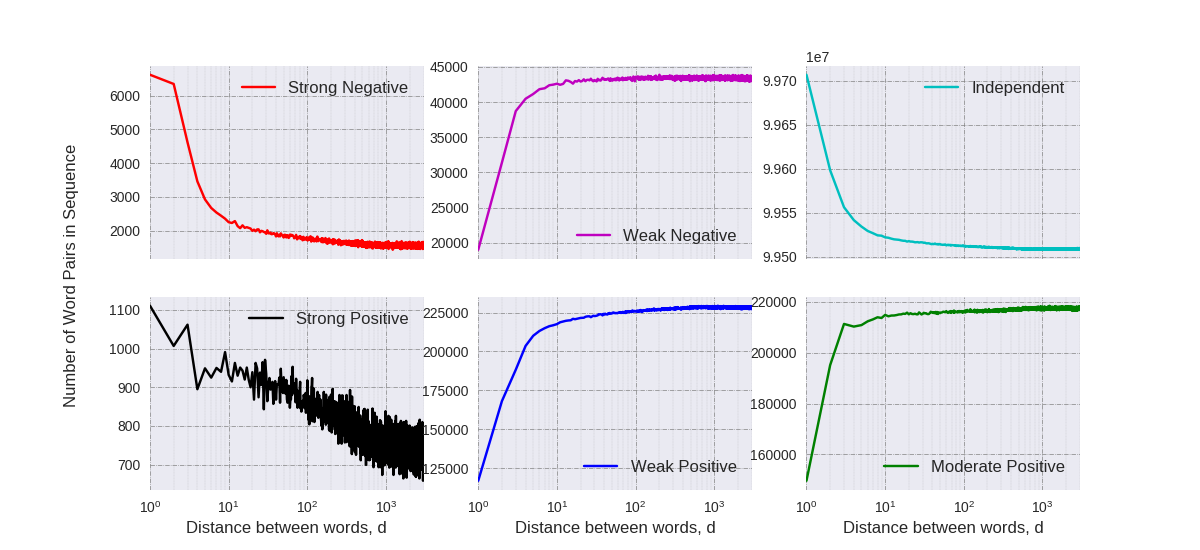
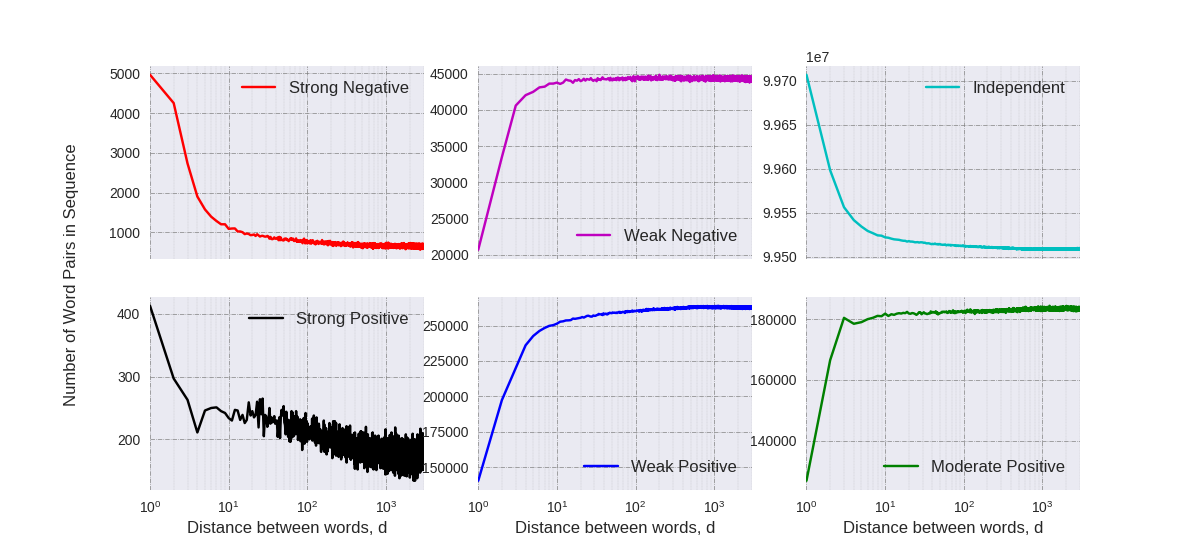
Up

diff --git a/paper_related/co-occurrence/cooccurrence.py b/paper_related/co-occurrence/cooccurrence.py
@@ -172,19 +172,19 @@ try:
 			fm.write("%d," % np.size(pmi[np.where(pmi>15.8)]))
 			fm.write("\n")
 		elif args.dataset == 14:
-			fm.write("%d," % np.size(pmi[np.where(pmi<-1.4)]))
-			fm.write("%d," % np.size(pmi[np.where((pmi<0)&(pmi>=-1.4))]))
+			fm.write("%d," % np.size(pmi[np.where(pmi<-1.3)]))
+			fm.write("%d," % np.size(pmi[np.where((pmi<0)&(pmi>=-1.3))]))
 			fm.write("%d," % (pmi_temp.shape[0]*pmi_temp.shape[1]-pmi_temp.nnz))
-			fm.write("%d," % np.size(pmi[np.where((pmi>0)&(pmi<=3))]))
-			fm.write("%d," % np.size(pmi[np.where((pmi>3)&(pmi<=11.9))]))
+			fm.write("%d," % np.size(pmi[np.where((pmi>0)&(pmi<=3.2))]))
+			fm.write("%d," % np.size(pmi[np.where((pmi>3.2)&(pmi<=11.9))]))
 			fm.write("%d," % np.size(pmi[np.where(pmi>11.9)]))
 			fm.write("\n")
 		elif args.dataset == 15:
-			fm.write("%d," % np.size(pmi[np.where(pmi<-1.4)]))
-			fm.write("%d," % np.size(pmi[np.where((pmi<0)&(pmi>=-1.4))]))
+			fm.write("%d," % np.size(pmi[np.where(pmi<-1.3)]))
+			fm.write("%d," % np.size(pmi[np.where((pmi<0)&(pmi>=-1.3))]))
 			fm.write("%d," % (pmi_temp.shape[0]*pmi_temp.shape[1]-pmi_temp.nnz))
-			fm.write("%d," % np.size(pmi[np.where((pmi>0)&(pmi<=3))]))
-			fm.write("%d," % np.size(pmi[np.where((pmi>3)&(pmi<=11.9))]))
+			fm.write("%d," % np.size(pmi[np.where((pmi>0)&(pmi<=3.2))]))
+			fm.write("%d," % np.size(pmi[np.where((pmi>3.2)&(pmi<=11.9))]))
 			fm.write("%d," % np.size(pmi[np.where(pmi>11.9)]))
 			fm.write("\n")
 		elif args.dataset == 2:
@@ -196,27 +196,27 @@ try:
 			fm.write("%d," % np.size(pmi[np.where(pmi>15.8)]))
 			fm.write("\n")
 		elif args.dataset == 4:
-			fm.write("%d," % np.size(pmi[np.where(pmi<-1.4)]))
-			fm.write("%d," % np.size(pmi[np.where((pmi<0)&(pmi>=-1.4))]))
+			fm.write("%d," % np.size(pmi[np.where(pmi<-1.3)]))
+			fm.write("%d," % np.size(pmi[np.where((pmi<0)&(pmi>=-1.3))]))
 			fm.write("%d," % (pmi_temp.shape[0]*pmi_temp.shape[1]-pmi_temp.nnz))
-			fm.write("%d," % np.size(pmi[np.where((pmi>0)&(pmi<=3))]))
-			fm.write("%d," % np.size(pmi[np.where((pmi>3)&(pmi<=11.9))]))
+			fm.write("%d," % np.size(pmi[np.where((pmi>0)&(pmi<=3.2))]))
+			fm.write("%d," % np.size(pmi[np.where((pmi>3.2)&(pmi<=11.9))]))
 			fm.write("%d," % np.size(pmi[np.where(pmi>11.9)]))
 			fm.write("\n")
 		elif args.dataset == 5:
-			fm.write("%d," % np.size(pmi[np.where(pmi<-1.4)]))
-			fm.write("%d," % np.size(pmi[np.where((pmi<0)&(pmi>=-1.4))]))
+			fm.write("%d," % np.size(pmi[np.where(pmi<-1.3)]))
+			fm.write("%d," % np.size(pmi[np.where((pmi<0)&(pmi>=-1.3))]))
 			fm.write("%d," % (pmi_temp.shape[0]*pmi_temp.shape[1]-pmi_temp.nnz))
-			fm.write("%d," % np.size(pmi[np.where((pmi>0)&(pmi<=3))]))
-			fm.write("%d," % np.size(pmi[np.where((pmi>3)&(pmi<=11.9))]))
+			fm.write("%d," % np.size(pmi[np.where((pmi>0)&(pmi<=3.2))]))
+			fm.write("%d," % np.size(pmi[np.where((pmi>3.2)&(pmi<=11.9))]))
 			fm.write("%d," % np.size(pmi[np.where(pmi>11.9)]))
 			fm.write("\n")
 		elif args.dataset == 20:
-			fm.write("%d," % np.size(pmi[np.where(pmi<-1.4)]))
-			fm.write("%d," % np.size(pmi[np.where((pmi<0)&(pmi>=-1.4))]))
+			fm.write("%d," % np.size(pmi[np.where(pmi<-1.3)]))
+			fm.write("%d," % np.size(pmi[np.where((pmi<0)&(pmi>=-1.3))]))
 			fm.write("%d," % (pmi_temp.shape[0]*pmi_temp.shape[1]-pmi_temp.nnz))
-			fm.write("%d," % np.size(pmi[np.where((pmi>0)&(pmi<=3))]))
-			fm.write("%d," % np.size(pmi[np.where((pmi>3)&(pmi<=11.9))]))
+			fm.write("%d," % np.size(pmi[np.where((pmi>0)&(pmi<=3.2))]))
+			fm.write("%d," % np.size(pmi[np.where((pmi>3.2)&(pmi<=11.9))]))
 			fm.write("%d," % np.size(pmi[np.where(pmi>11.9)]))
 			fm.write("\n")
 		elif args.dataset == 17:

diff --git a/paper_related/co-occurrence/plot_cooccur.py b/paper_related/co-occurrence/plot_cooccur.py
@@ -7,11 +7,11 @@ import numpy as np
 filenames = ["1","2","4","5","6","9","14","15","17","18","20"]
 
 # f = open("marginal_dependence_<unk>_"+filenames[7], "r")
-f = open("word_pair_dependence_"+filenames[1], "r")
+f = open("word_pair_dependence_"+filenames[4], "r")
 lines = f.readlines()
 f.close()
 
-print("word_pair_dependence_"+filenames[1])
+print("word_pair_dependence_"+filenames[4])
 
 start = 0
 end = 0
@@ -103,5 +103,5 @@ with plt.style.context(('seaborn')):
 	print(fig.get_figwidth())
 	print(fig.get_figheight())
 
-	plt.savefig('pmi_plots_wiki19L')
+	plt.savefig('pmi_plots_wiki2')
 	plt.show()

diff --git a/paper_related/co-occurrence/word_distribution.py b/paper_related/co-occurrence/word_distribution.py
@@ -1,5 +1,3 @@
-
-
 #!/usr/bin/env python
 
 # System libs
